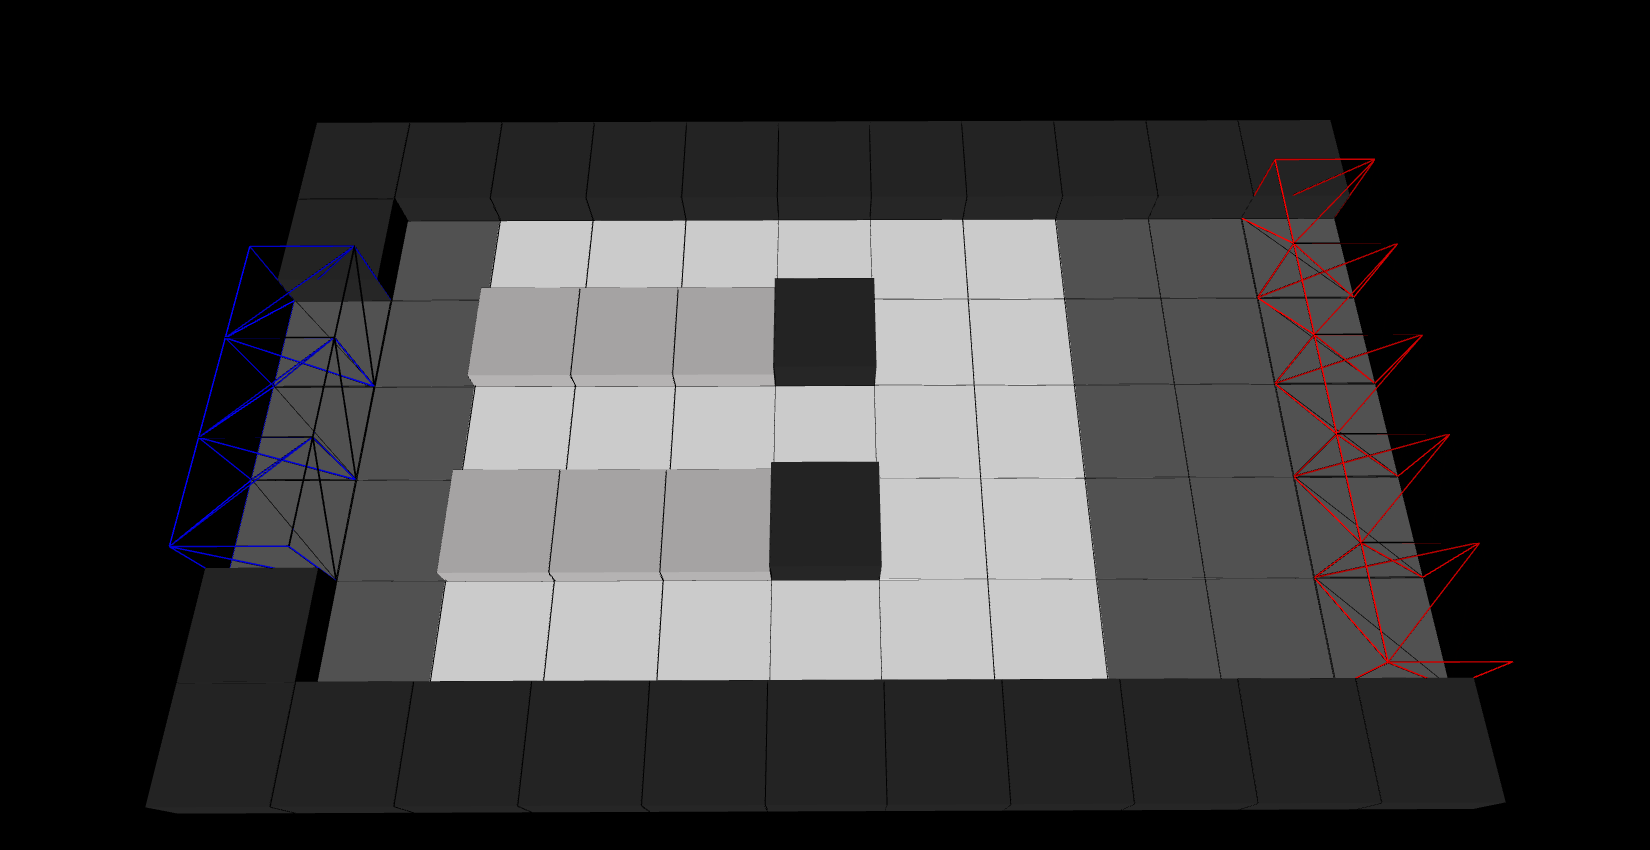
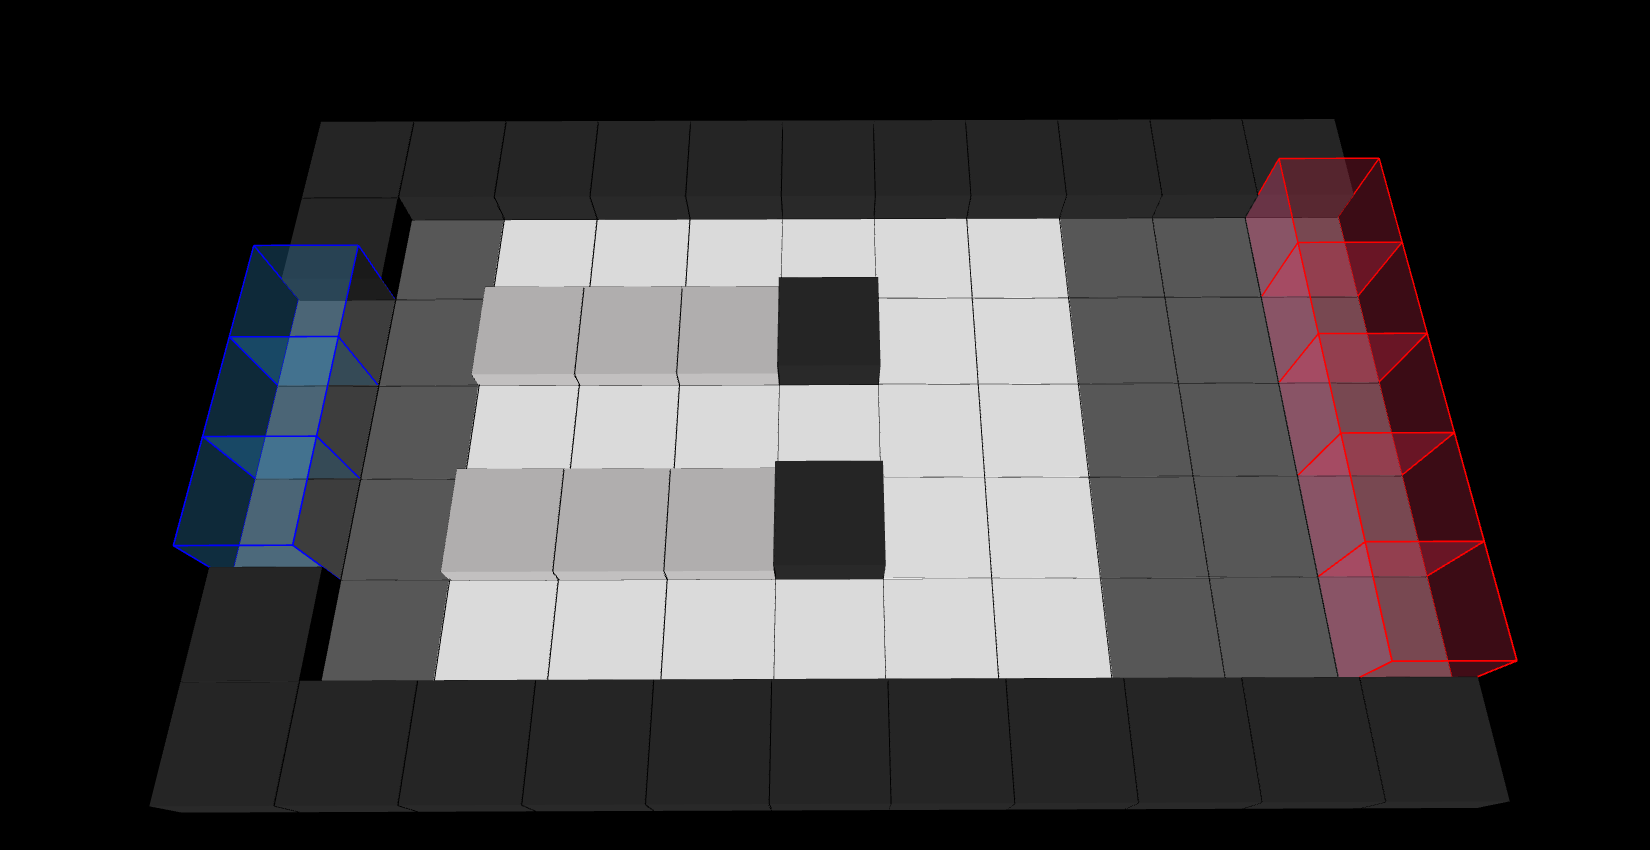
boxes layout

diff --git a/js/Levels.js b/js/Levels.js
@@ -7,7 +7,7 @@ levels["AMOGUS-1"] = {
     hp: 3,
     bgm: "dm_2",
     background: "loading4",
-    description: "Some mercenaries have been spotted at our doorstep.\n Take them out swiftly.\n",
+    description: "OooooOHOO OOO\n\n YOU WANT TO GAMING SO BADLY\n",
     waves: [
         {"number":0, "time": 1, "gap": 5, "enemies": "Sarkaz Grudgebearer", "line": true, "tooltip": false, "taunt": false, "count": 1, "start": [1, 8], "checkpoints": [{ "start": [1, 8], "end": [1, 5], "pause": 0 }, { "start": [1, 5], "end": [1, 8], "pause": 0 }, { "start": [1, 8], "end": [1, 5], "pause": 0 }, { "start": [1, 5], "end": [1, 8], "pause": 0 }, { "start": [1, 8], "end": [1, 5], "pause": 0 }, { "start": [1, 5], "end": [1, 8], "pause": 0 }, { "start": [1, 8], "end": [1, 5], "pause": 0 }, { "start": [1, 5], "end": [1, 8], "pause": 0 }, { "start": [1, 8], "end": [1, 5], "pause": 0 }, { "start": [1, 5], "end": [6, 8], "pause": 0 }, { "start": [6, 8], "end": [2, 1], "pause": 0 }] },
         { "number":1,"time": 1, "gap": 10, "enemies": "Sarkaz Bladeweaver", "line": true, "tooltip": false, "taunt": false, "count": 1, "start": [3, 9], "checkpoints": [{ "start": [3, 9], "end": [3, 9], "pause": 150 }, { "start": [3, 9], "end": [6, 7], "pause": 0 }, { "start": [6, 7], "end": [2, 1], "pause": 0 }] },
@@ -92,6 +92,8 @@ levels["AMOGUS-1"] = {
 
     ],
     enemies: ["Sarkaz Sentinel", "Sarkaz Grudgebearer", "Sarkaz Greatswordsman", "Sarkaz Bladeweaver", "Sarkaz Crossbowman", "Sarkaz Swordsman"],
+    tooltips: [],
+
 
 
     layout: [["bg", "bg", "bg", "bg", "bg", "bg", "bg", "bg", "bg", "bg", "bg", "bg", "bg"], ["bg", "bg", "bg", "bg", "bg", "g", "g", "g", "g", "bg", "bg", "bg", "bg"],
@@ -100,7 +102,7 @@ levels["AMOGUS-1"] = {
     ["bg", "bg", "bg", "r", "g", "r", "bg", "r", "bg", "g", "bg", "bg", "bg"],
     ["bg", "red", "blk", "blk", "blk", "blk", "r", "bg", "blk", "blk", "blk", "blk", "blue"],
     ["bg", "bg", "bg", "r", "r", "g", "g", "g", "g", "bg", "bg", "bg", "bg"],
-    ["bg", "bg", "bg", "bg", "bg", "bg", "bg", "bg", "bg", "bg", "bg", "bg", "bg"]
+    ["e", "e", "e", "e", "e", "e", "e", "e", "e", "e", "e", "e", "e"]
     ],
 
     hazards : [],
@@ -129,7 +131,7 @@ levels["GUERRILLA-1"] = {
     {"number":8, "time": 2, "gap": 5, "enemies": "Guerrilla Fighter", "line": false, "tooltip": false, "count": 1, "taunt": false, "start": [6, 11], "checkpoints": [{ "start": [6, 11], "end": [6, 10], "pause": 164 },{ "start": [6, 9], "end": [5, 1], "pause": 0 }]},
     {"number":9, "time": 2, "gap": 5, "enemies": "Guerrilla Fighter", "line": false, "tooltip": false, "count": 1, "taunt": false, "start": [2, 11], "checkpoints": [{ "start": [2, 11], "end": [2, 10], "pause": 166 },{ "start": [2, 9], "end": [3, 1], "pause": 0 }]},
 
-    {"number":10, "time": 6, "gap": 5, "enemies": "Guerrilla Hound", "line": true, "tooltip": true, "count": 1, "taunt": false, "start": [4, 11], "checkpoints": [{ "start": [4, 11], "end": [4, 1], "pause": 0 }]},
+    {"number":10, "time": 6, "gap": 5, "enemies": "Guerrilla Hound", "line": true, "tooltip": true, "count": 1, "taunt": true, "start": [4, 11], "checkpoints": [{ "start": [4, 11], "end": [4, 1], "pause": 0 }]},
     {"number":11, "time": 9, "gap": 5, "enemies": "Guerrilla Hound", "line": true, "tooltip": false, "count": 1, "taunt": false, "start": [5, 11], "checkpoints": [{ "start": [5, 11], "end": [5, 8], "pause": 0 },{ "start": [5, 8], "end": [4, 1], "pause": 0 }]},
     {"number":12, "time": 14, "gap": 5, "enemies": "Guerrilla Hound", "line": false, "tooltip": false, "count": 1, "taunt": false, "start": [4, 11], "checkpoints": [{ "start": [4, 11], "end": [4, 1], "pause": 0 }]},
     {"number":13, "time": 17, "gap": 4, "enemies": "Guerrilla Hound", "line": true, "tooltip": false, "count": 2, "taunt": false, "start": [2, 11], "checkpoints": [{ "start": [2, 11], "end": [3, 1], "pause": 0 }]},
@@ -180,6 +182,8 @@ levels["GUERRILLA-1"] = {
 ],
 
     enemies: ["Guerrilla Hound","Guerrilla Fighter"],
+    tooltips: ["Guerrilla Hound","Guerrilla Fighter"],
+
     hazards : [],
 
 
@@ -212,6 +216,7 @@ levels["TEST"] = {
 ],
 
     enemies: ["Guerrilla Shieldguard Leader","Guerrilla Fighter Leader","Sarkaz Guerrilla Fighter Leader","Guerrilla Herald","Guerrilla Herald Leader"],
+    tooltips: ["Sarkaz Guerrilla Fighter Leader","Guerrilla Herald"],
     hazards : ["altar"],
 
     layout: [["bg", "bg", "bg", "bg", "bg", "bg", "bg", "bg", "bg", "bg", "bg", "bg", "bg"], ["blue", "g", "g", "g", "g", "g", "g", "g", "g", "g", "g", "blk", "red"],

diff --git a/js/LVLController.js b/js/LVLController.js
@@ -11,6 +11,7 @@ class LVLController extends LVLAbstract {
         this.enemies = [];
         this.hazards = [];
         this.presentHazards = lvl.hazards;
+        this.tooltips = lvl.tooltips;
 
         this.gui = new LVLGUIController(this.scene, this.gameconfig);
 
@@ -169,11 +170,11 @@ class LVLController extends LVLAbstract {
         var instance = this;
         var assetsManager = instance.scene.assetsManager;
         var binaryTask;
-        for (let i = 0; i < this.appearingenemies.length; i++) {
+        for (let i = 0; i < this.tooltips.length; i++) {
 
             binaryTask = assetsManager.addImageTask(
-                instance.appearingenemies[i] + "-enemyicon",
-                "images/enemyicons/" + instance.appearingenemies[i] + ".png",
+                instance.tooltips[i] + "-enemyicon",
+                "images/enemyicons/" + instance.tooltips[i] + ".png",
             );
             binaryTask.onSuccess = function (task) {
                 instance.scene.assets[task.name] = task.image

diff --git a/js/EnemySpawn.js b/js/EnemySpawn.js
@@ -9,10 +9,15 @@ class EnemySpawn extends Tile {
         this.mesh.position.x = 0 + this.x * 30;
         this.colorMesh();
         this.mesh.position.y += 30 / 2 + 1.5
-        this.mesh.material.diffuseColor = BABYLON.Color3.Red();
-        this.mesh.material.wireframe = true;
+        this.mesh.material.diffuseColor =BABYLON.Color3.FromHexString("#e72d50");
+        this.mesh.material.alpha = 0.3
+        this.mesh.enableEdgesRendering();	
+        this.mesh.edgesWidth = 50.0;
+        this.mesh.edgesColor = new BABYLON.Color4(1, 0, 0, 1);
+        //this.mesh.material.wireframe = true;
         this.mesh.freezeWorldMatrix();
         this.mesh.convertToUnIndexedMesh();
+
 
 
     }

diff --git a/js/HPBox.js b/js/HPBox.js
@@ -9,8 +9,12 @@ class HPBox extends Tile {
         this.mesh.position.x = 0 + this.x * 30;
         this.colorMesh();
         this.mesh.position.y += 30 / 2 + 1.5
-        this.mesh.material.diffuseColor = BABYLON.Color3.Blue();
-        this.mesh.material.wireframe = true;
+        this.mesh.material.diffuseColor =new BABYLON.Color3(0.21, 0.62, 0.87); 
+        this.mesh.material.alpha = 0.3
+        this.mesh.enableEdgesRendering();	
+        this.mesh.edgesWidth = 50.0;
+        this.mesh.edgesColor = new BABYLON.Color4(0, 0, 1, 1);
+        //this.mesh.material.wireframe = true;
         this.mesh.freezeWorldMatrix();
         this.mesh.convertToUnIndexedMesh();
 
